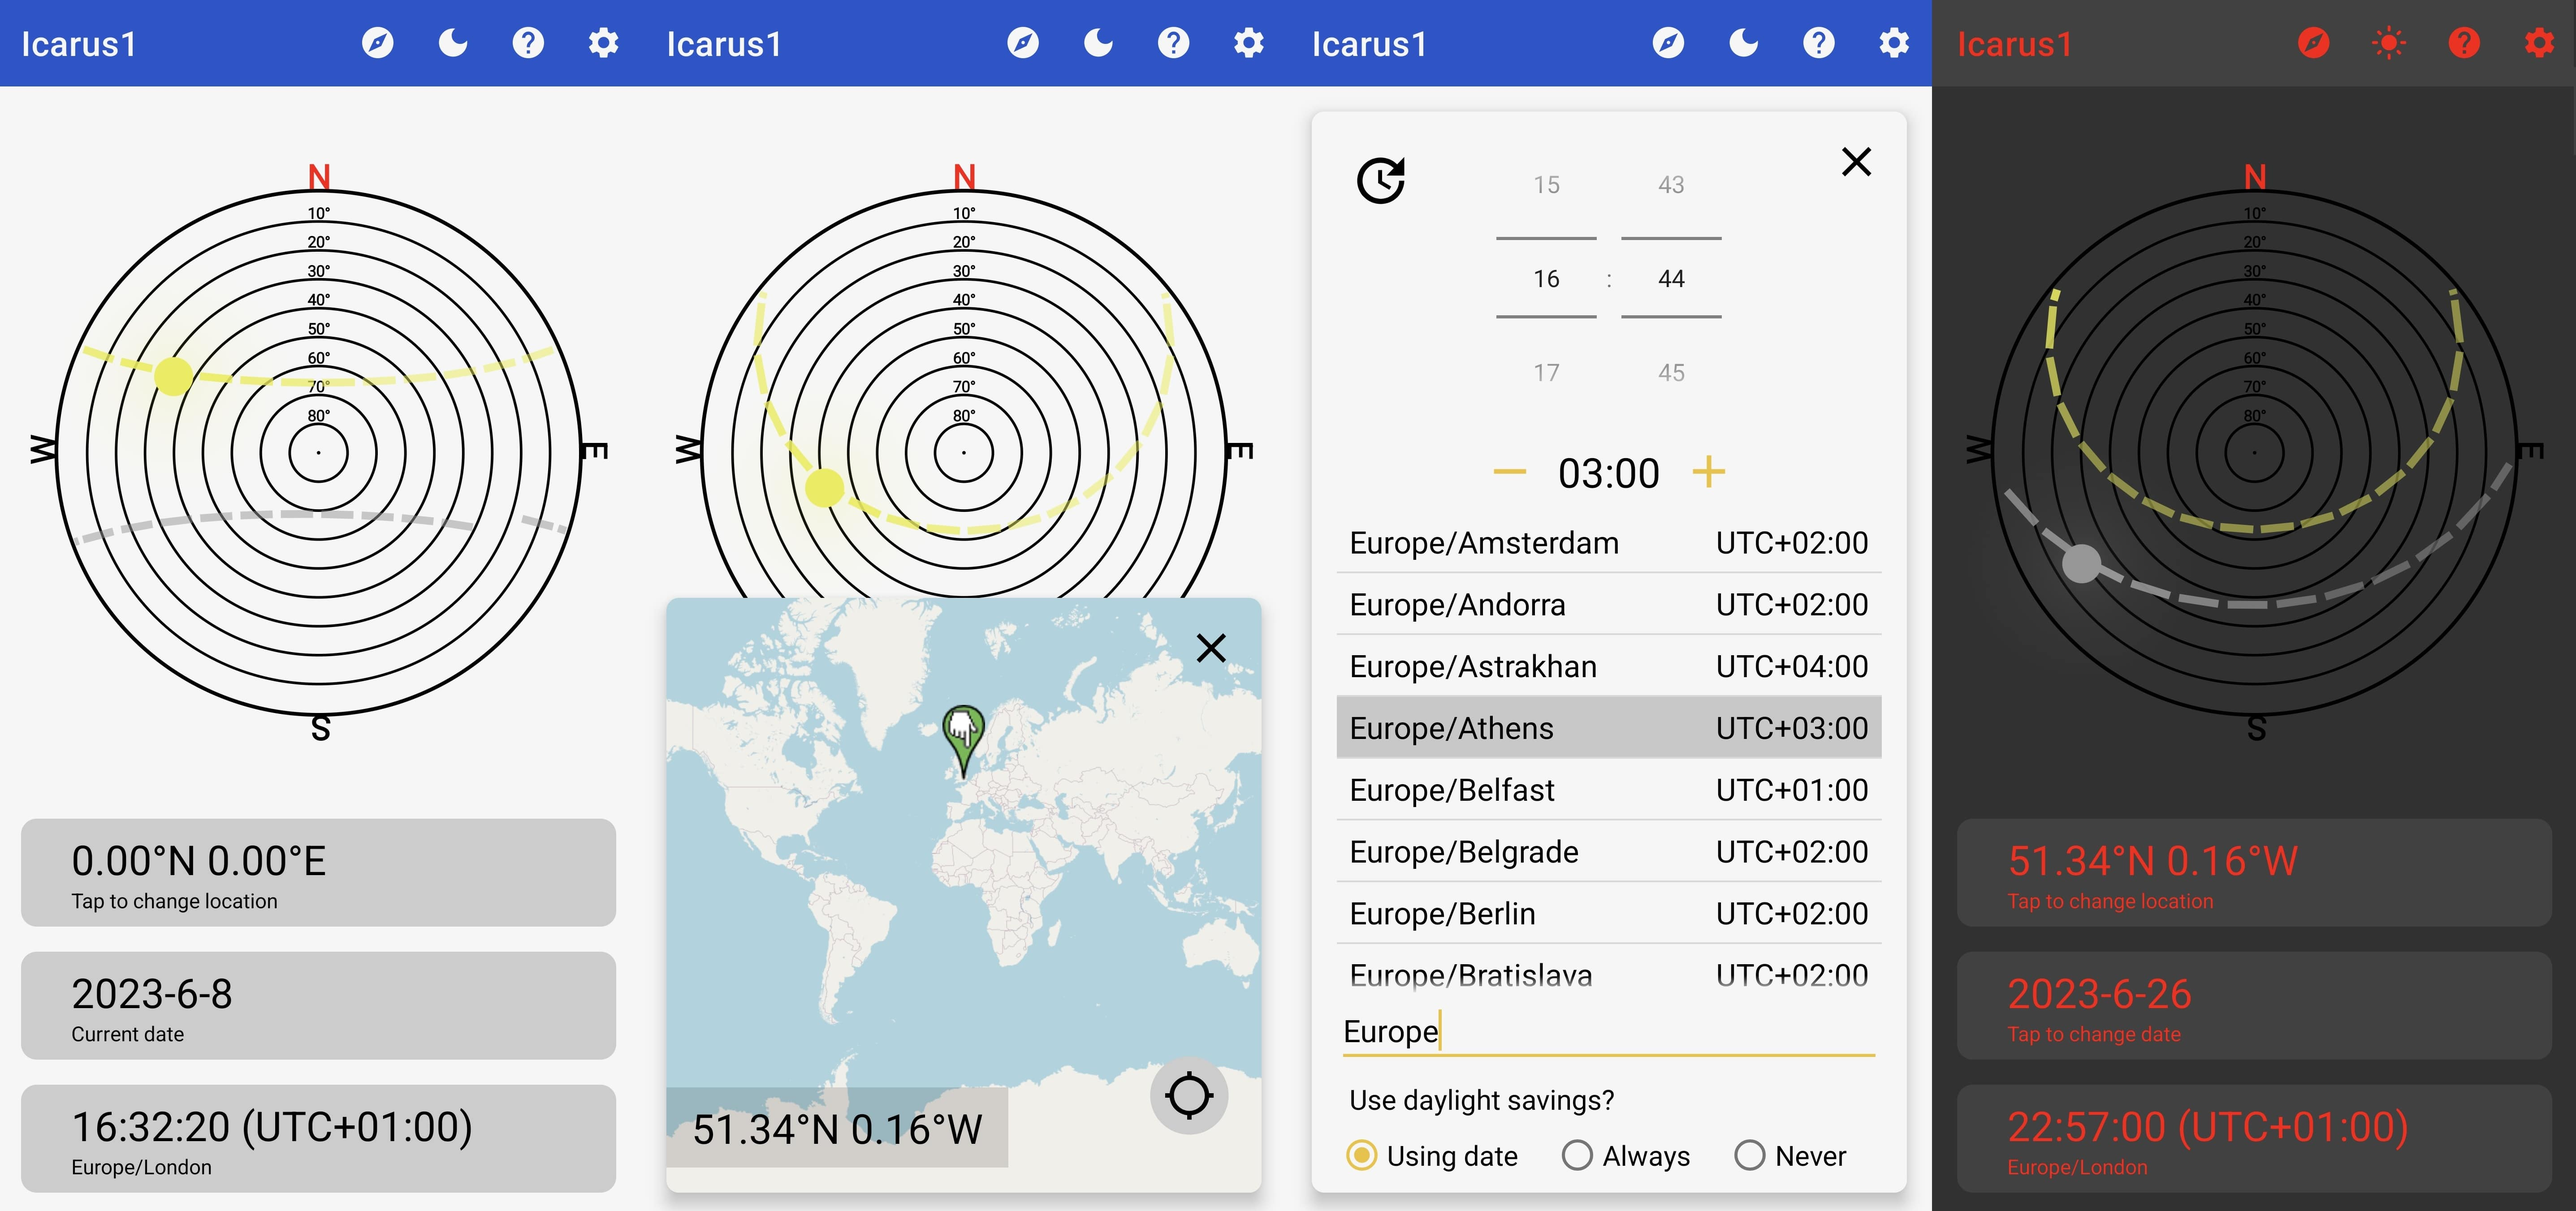
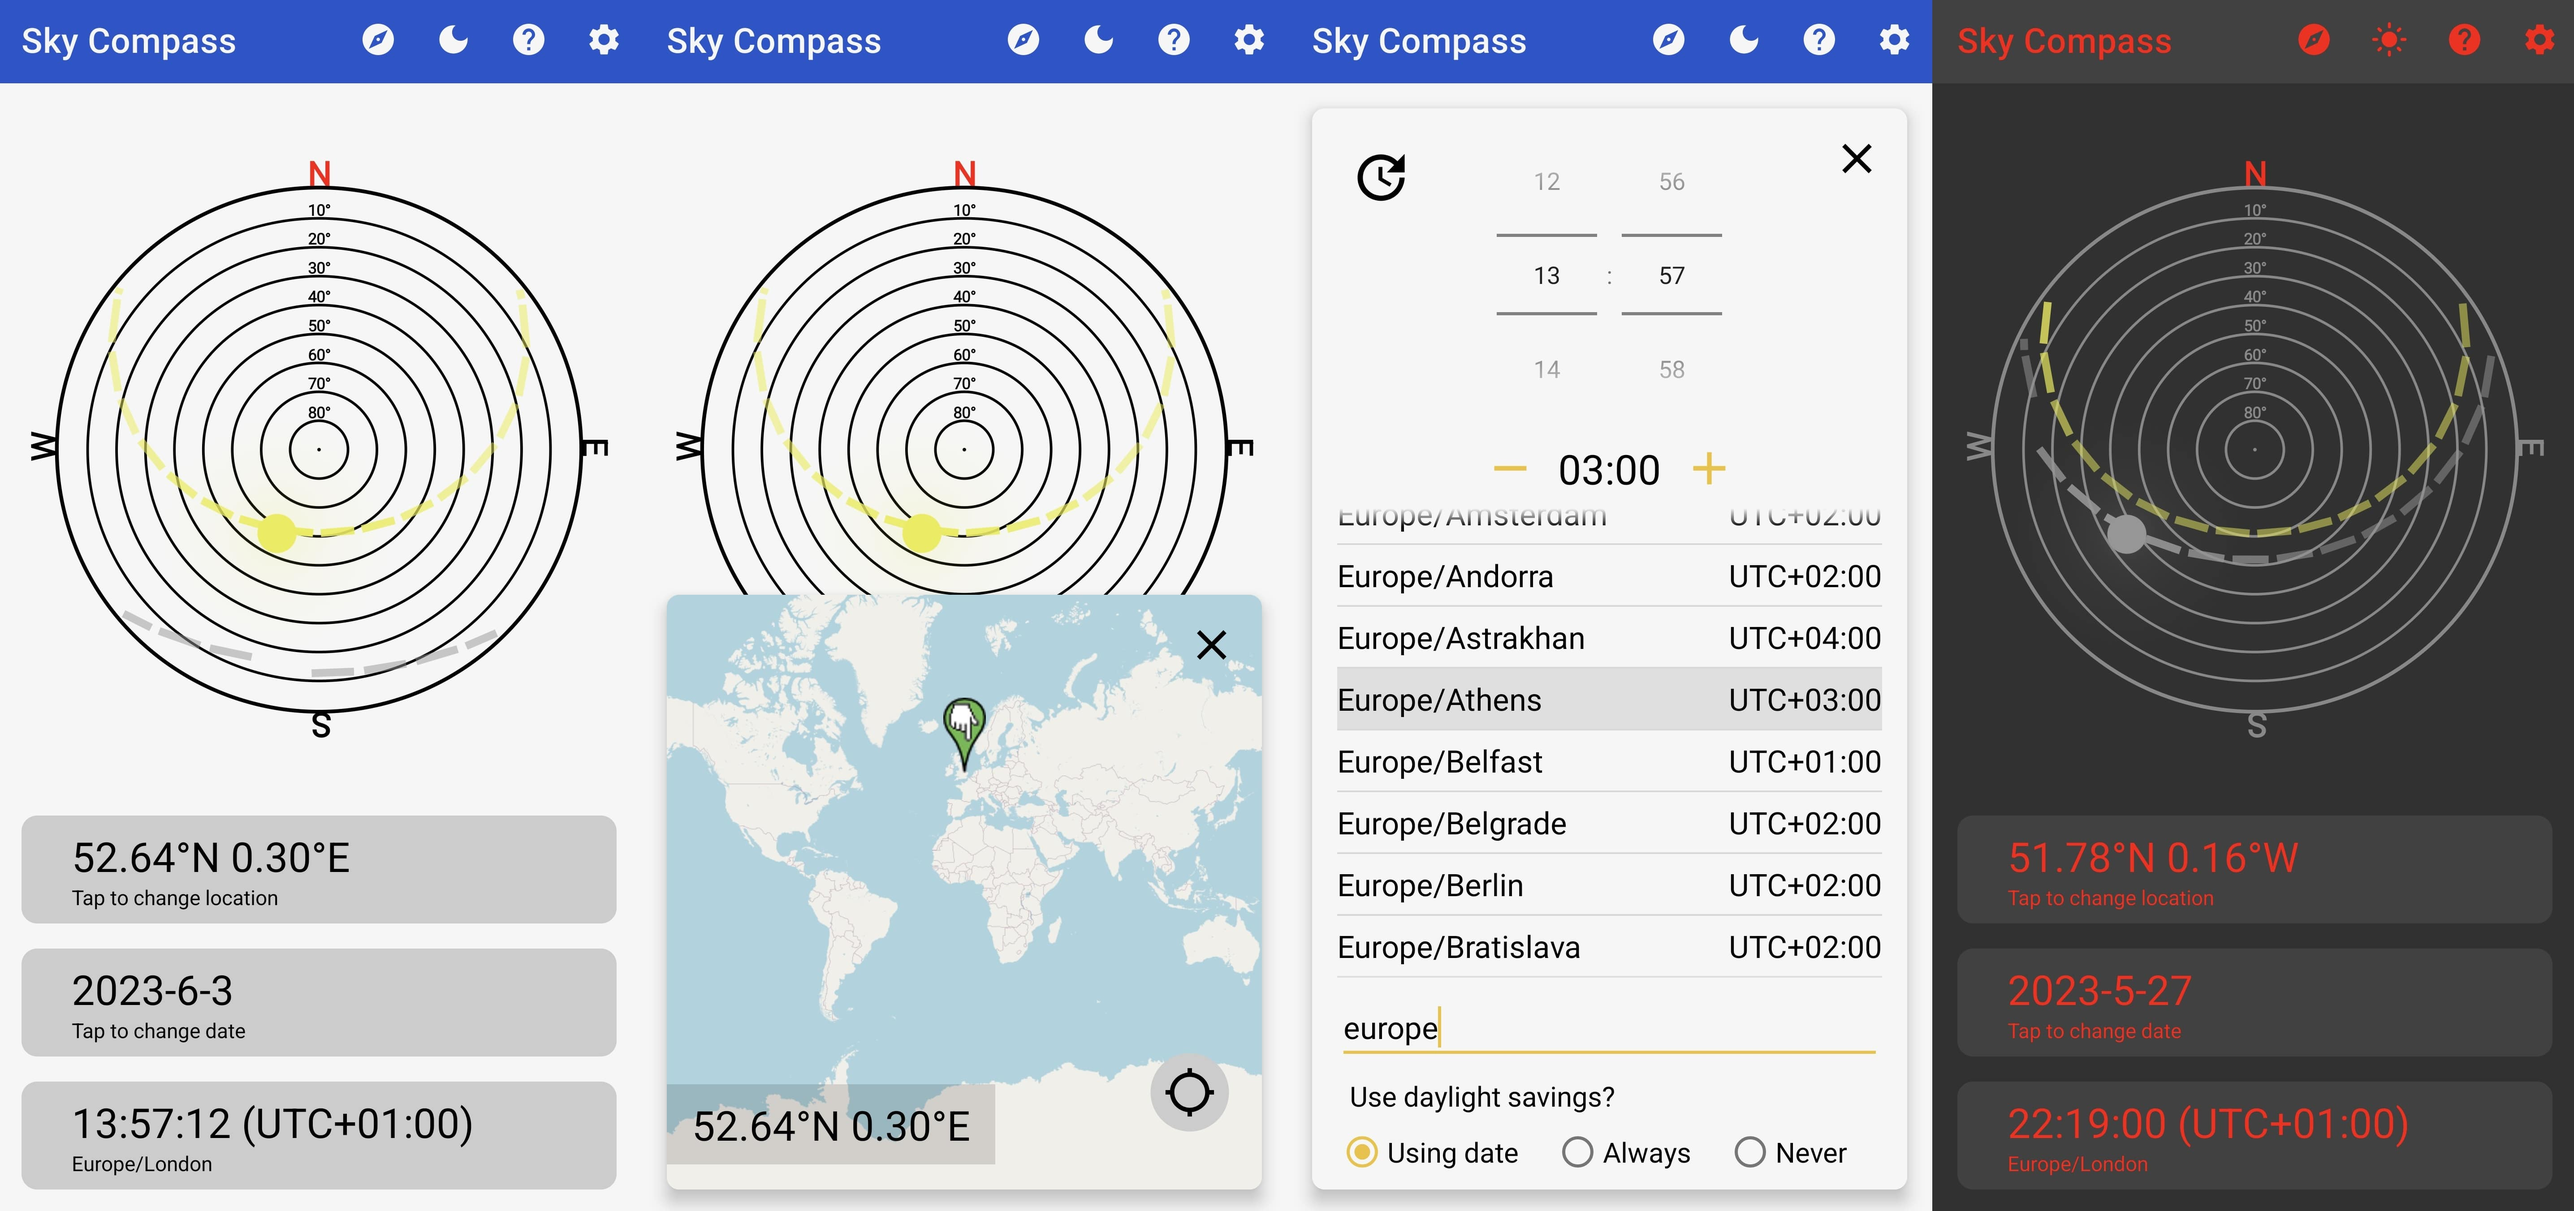
Used new Sky Compass name in README.md.

diff --git a/README.md b/README.md
@@ -1,4 +1,4 @@
-# Icarus
+# Sky Compass
 
 Android app for tracking the sun and moon - past, present and future.
 
